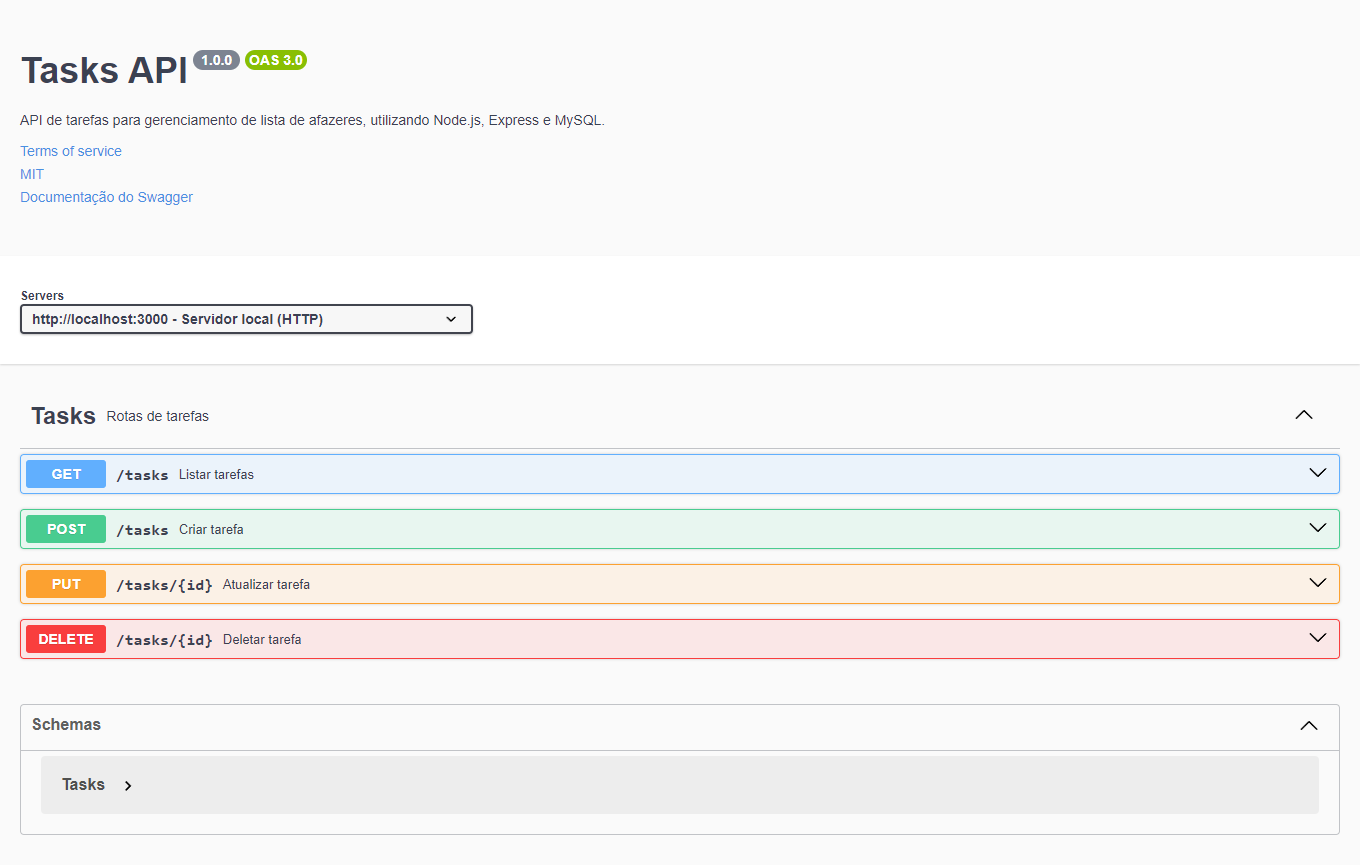
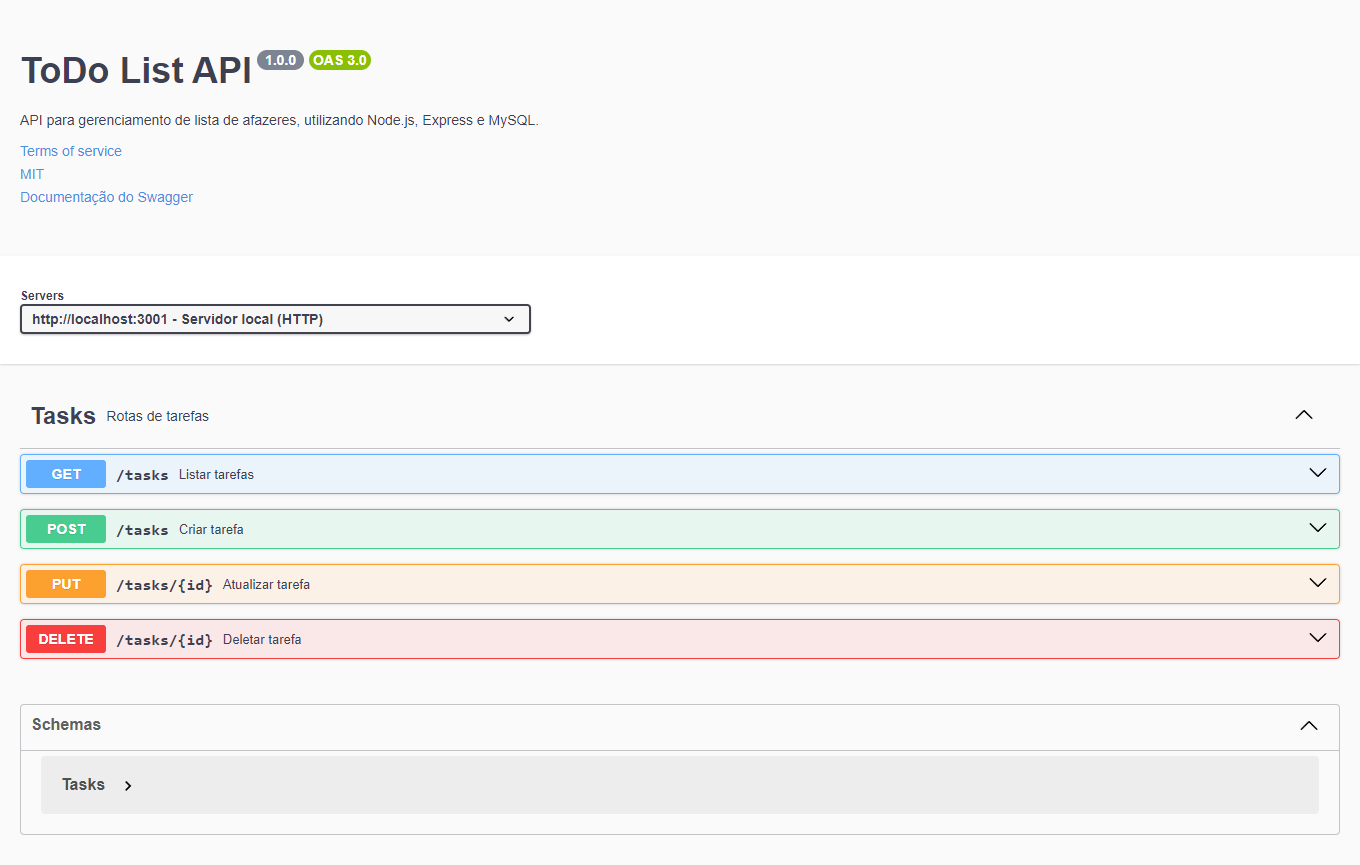
update

diff --git a/backend/src/models/tasksModel.js b/backend/src/models/tasksModel.js
@@ -15,12 +15,12 @@ const createTask = async (task) => {
 
   const dateUTC = new Date(Date.now()).toUTCString(); // Cria uma constante chamada dateUTC que recebe a data atual em formato UTC. O new Date(Date.now()) cria um novo objeto Date com a data atual e o toUTCString() converte a data para o formato UTC.
 
-  const query = "INSERT INTO tasks(title, status, created_at) VALUES(?, ?, ?)"; // Cria uma query de inserção de uma nova tarefa no banco de dados. O INSERT INTO é utilizado para inserir dados em uma tabela no caso o tasks, que recebe as chaves title, status e created_at. Os valores são passados como ?, pois serão substituídos pelos valores reais na execução da query.
+  const query = "INSERT INTO tasks(title, status) VALUES(?, ?)"; // Cria uma query de inserção de uma nova tarefa no banco de dados. O INSERT INTO é utilizado para inserir dados em uma tabela no caso o tasks, que recebe as chaves title e status. Os valores são passados como ?, pois serão substituídos pelos valores reais na execução da query.
 
-  // Chama o método execute da conexão com o banco de dados, passando a query que insere uma nova tarefa, substituindo os ? pelo título da tarefa, o status por padrão é pendente e o created_at é a data de criação da tarefa. O await tem que ser utilizado para que a função espere a execução da query e só depois retorne o resultado.
+  // Chama o método execute da conexão com o banco de dados, passando a query que insere uma nova tarefa, substituindo os ? pelo título da tarefa, o status por padrão é pendente. O await tem que ser utilizado para que a função espere a execução da query e só depois retorne o resultado.
   await connection.execute(
     query, // Executa a query de inserção de uma nova tarefa no banco de dados.
-    [title, "pendente", dateUTC], // Passa os valores que substituirão os ? na query. O title é o título da tarefa, o status por padrão é pendente e o created_at é a data de criação da tarefa.
+    [title, "pendente", dateUTC], // Passa os valores que substituirão os ? na query. O title é o título da tarefa, o status por padrão é pendente.
   );
 };
 

diff --git a/frontend/src/Api.jsx b/frontend/src/Api.jsx
@@ -1,9 +1,12 @@
+const local = "http://localhost:3001";
+const server = "https://todo-list-api-to2m.onrender.com";
+
 // A função GET_TASKS é responsável por fazer a requisição GET para a API, que retorna todas as tarefas cadastradas no banco de dados.
 export const GET_TASKS = () => {
   // Retorna um objeto com a URL e as opções da requisição.
   return {
     // O url é a URL da API que será acessada.
-    url: "http://localhost:3001/tasks",
+    url: `${server}/tasks`,
     // O options é um objeto que contém as opções da requisição.
     options: {
       // O method é o método da requisição.
@@ -22,7 +25,7 @@ export const POST_TASK = (title) => {
   // Retorna um objeto com a URL e as opções da requisição.
   return {
     // O url é a URL da API que será acessada.
-    url: "http://localhost:3001/tasks",
+    url: `${server}/tasks`,
     // O options é um objeto que contém as opções da requisição.
     options: {
       // O method é o método da requisição.
@@ -41,7 +44,7 @@ export const POST_TASK = (title) => {
 export const DELETE_TASK = (id) => {
   return {
     // O url é a URL da API que será acessada.
-    url: `http://localhost:3001/tasks/${id}`,
+    url: `${server}/${id}`,
     // O options é um objeto que contém as opções da requisição.
     options: {
       // O method é o método da requisição.
@@ -55,10 +58,10 @@ export const DELETE_TASK = (id) => {
 };
 
 // A função PUT_TASK é responsável por fazer a requisição PUT para a API, que atualiza o título de uma tarefa no banco de dados.
-export const PUT_TASK = ({id, title, status}) => {
+export const PUT_TASK = ({ id, title, status }) => {
   return {
     // O url é a URL da API que será acessada.
-    url: `http://localhost:3001/tasks/${id}`,
+    url: `${server}/${id}`,
     // O options é um objeto que contém as opções da requisição.
     options: {
       // O method é o método da requisição.

diff --git a/backend/README.md b/backend/README.md
@@ -15,15 +15,12 @@
 ## Sumário
 
 - [Introdução](#introdução)
-- [Requisitos](#requisitos)
 - [Instalação](#instalação)
+- [Variáveis de ambiente](#variáveis-de-ambiente)
+- [MySQL em um servidor externo](#mysql-em-um-servidor-externo)
 - [Visão geral da API](#visão-geral-da-api)
 - [Documentação do Swagger](#documentação-do-swagger)
 - [Recursos principais e Exemplos](#recursos-principais-e-exemplos)
-  - [1. Listar tarefas](#1-listar-tarefas)
-  - [2. Criar tarefa](#2-criar-tarefa)
-  - [3. Atualizar tarefa](#4-atualizar-tarefa)
-  - [4. Deletar tarefa](#5-deletar-tarefa)
 
 ## Introdução
 
@@ -36,54 +33,123 @@ Para instalar e executar o projeto, siga os passos abaixo:
 1. Clone o repositório
 - Abra o terminal e execute o comando abaixo para clonar o repositório:
 
-```bash
-git clone https://github.com/luizfelipe9627/todolist-fullstack/backend.git
-```
+  ```bash
+    git clone https://github.com/luizfelipe9627/todo-list-api.git
+  ```
 
-2. Defina as variáveis de ambiente
-- Deixei um arquivo de exemplo chamado `.env.example` na raiz do projeto. Copie o conteúdo desse arquivo e crie um novo arquivo chamado `.env`. Preencha as variáveis de ambiente com as informações como no exemplo abaixo:
+2. Acesse a pasta do projeto
+- Navegue até a pasta do projeto com o comando abaixo:
 
-```bash
-PORT=3000
-DB_HOST=localhost
-DB_USER=root
-DB_PASSWORD=root
-DB_NAME=tasks
-```
+  ```bash
+    cd todo-list-api
+  ```
 
-5. Instale o Docker
+3. Defina as variáveis de ambiente
+- Siga as instruções do tópico [Variáveis de ambiente](#variáveis-de-ambiente) para definir as variáveis de ambiente no arquivo `.env`.
+
+4. Instale o Docker
 - Para instalar o Docker, siga as instruções no link abaixo:
 
-```bash
-https://docs.docker.com/get-docker/
-```
+  ```bash
+    https://docs.docker.com/get-docker/
+  ```
 
-4. Inicie o Docker
-- Esse comando irá instalar as dependências do projeto e iniciar o container da aplicação e do banco de dados:
+5. Inicie as Imagens do Docker
 
-```bash
-npm run docker:start
-```
+- Caso deseje rodar apenas o Node.JS, execute o comando abaixo:
 
-5. Acesse o servidor local
+Para criar a imagem do Node.JS e iniciar o container:
+  ```bash
+    npm run docker:app
+  ```
+
+- Caso deseje rodar junto com o MySQL, execute o comando abaixo:
+
+Para criar a imagem do MySQL e iniciar o container:
+  ```bash
+    npm run docker:db
+  ```
+
+Obs.: Se deseja alterar o Schema do banco de dados, acesse o arquivo `src/database/schema.sql`, faça as alterações necessárias e execute o comando abaixo para atualizar o Schema do banco de dados:
+
+  ```bash
+    npm run docker:db:schema
+  ```
+
+6. Acesse o servidor local
 - Acesse no terminal do editor de código ou no do Docker o link do servidor local, sendo a porta definida no arquivo `.env`:
 
-```bash
-http://localhost:3000
-```
+  ```bash
+    http://localhost:3000
+  ```
+
+## Variáveis de ambiente
+
+- Caso deseje rodar o projeto em ambiente de desenvolvimento, copie o arquivo `.env.dev.example` e renomeie para `.env`. Os valores padrões não podem ser alterados, pois são necessários para o funcionamento correto do Docker com o MySQL.
+
+  ```bash
+    PORT=3001 # Para que o swagger funcione corretamente, a porta deve ser a deinida por padrão.
+    NODE_ENV=development # Para rodar com o nodemon, o valor dessa variável deve ser 'development'.
+    MYSQL_HOST=db # Para rodar com o Docker Compose, o valor dessa variável deve ser passado nome do serviço do container do MySQL.
+    MYSQL_USER=root
+    MYSQL_PASSWORD=root
+    MYSQL_DATABASE=todolist # Para rodar com o Docker Compose, o valor dessa variável deve ser 'todolist', pois é o nome do banco de dados que será criado no MySQL.
+  ```
+
+- Caso deseje rodar o projeto em ambiente de produção(deploy), copie o arquivo `.env.prod.example` e renomeie para `.env`. Todos os valores das variáveis de ambiente podem ser alterados, exceto o valor da variável `NODE_ENV`, que deve ser `production`.
+
+  ```bash
+    PORT=3001 # Para que o swagger funcione corretamente, a porta deve ser a deinida por padrão.
+    NODE_ENV=production # Para rodar com o node em ambiente de produção, o valor dessa variável deve ser 'production'.
+    MYSQL_HOST=
+    MYSQL_USER=
+    MYSQL_PASSWORD=
+    MYSQL_DATABASE=
+  ```
+
+## MySQL em um servidor externo
+- Caso queira hospedar o banco de dados MySQL em um servidor externo, siga as instruções abaixo:
+
+1. Crie um banco de dados MySQL
+- Crie um banco de dados MySQL em um servidor externo. Anote o host, usuário, senha e nome do banco de dados.
+
+2. Pegue as variáveis de ambiente
+- Com as informações do banco de dados MySQL, defina as variáveis de ambiente no arquivo `.env`, conforme as instruções do tópico [Variáveis de ambiente](#variáveis-de-ambiente).
+
+3. Crie o schema do banco de dados MySQL
+- O banco de dados MySQL possui uma tabela chamada `tasks` com os seguintes campos:
+
+- `id`: Identificador único da tarefa.
+- `title`: Título da tarefa.
+- `status`: Status da tarefa.
+
+  ```sql
+    # Cria o banco de dados todolist
+    CREATE DATABASE IF NOT EXISTS todolist;
+
+    # Use o banco de dados todolist
+    USE todolist;
+
+    # Cria a tabela tasks
+    CREATE TABLE tasks (
+      id INT PRIMARY KEY AUTO_INCREMENT,
+      title VARCHAR(1000) NOT NULL,
+      status VARCHAR(45) NOT NULL
+  );
+  ```
 
 ## Visão geral da API
 
 A API foi projetada para ser fácil e simples de usar. Abaixo estão alguns pontos importantes para começar:
 
-- **Base URL**: O endpoint base para todas as chamadas da API é [http://localhost:3000].
+- **Base URL**: O endpoint base para todas as chamadas da API é [http://localhost:3001].
 - **Autenticação**: A API não requer autenticação.
 - **Estrutura da resposta**: As respostas da API são retornadas em formato JSON. Os exemplos de resposta são fornecidos na documentação abaixo para cada endpoint.
 - **Códigos de status**: A API retorna os seguintes códigos de status padrão: 200, 201 e 400. Códigos de status personalizados podem ser retornados em determinadas situações.
 
 ## Documentação do Swagger
 
-Explore e teste a API de forma interativa usando a documentação local do Swagger. Acesse [link para a documentação do Swagger](http://localhost:3000) para obter uma visão visual completa dos endpoints, parâmetros e exemplos. Só é possível acessar a documentação do Swagger localmente após a instalação e execução do projeto.
+Explore e teste a API de forma interativa usando a documentação local do Swagger. Acesse [link para a documentação do Swagger](http://localhost:3001) para obter uma visão visual completa dos endpoints, parâmetros e exemplos. Só é possível acessar a documentação do Swagger localmente após a instalação e execução do projeto.
 
 ## Recursos principais e Exemplos
 
@@ -102,13 +168,11 @@ Retorna uma lista de todos as tarefas.
     "id": 1,
     "title": "Reunião de Planejamento",
     "status": "Concluída",
-    "created_at": "Sun, 14 Apr 2024 22:09:50 GMT",
   }
   {
     "id": 2,
     "title": "Relatório Mensal",
     "status": "Pendente",
-    "created_at": "Sun, 14 Apr 2024 22:09:50 GMT",
   }
 ]
 ```
